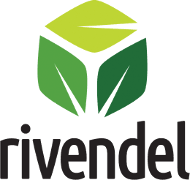
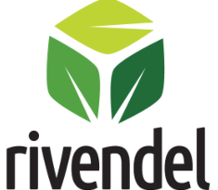
Add optimized images for retina displays

diff --git a/resources/styles/application.css b/resources/styles/application.css
@@ -1,1 +1,1 @@
-@import url(//fonts.googleapis.com/css?family=Open+Sans:300italic,400italic,700italic,400,700,300);.button,#hero .try .button{background-color:#223;border-radius:1px;color:#fff;cursor:pointer;display:inline-block;padding:4px 16px;transition:background-color 0.25s ease;user-select:none}.button:hover,#hero .try .button:hover{background-color:#27273b}.button:active,#hero .try .button:active{background-color:#1d1d2b}#features .button{padding:8px 16px}#hero .try .button{padding:12px 16px}@media screen and (min-width: 800px){.column{float:left}}.container:after,.navigation-items:after{clear:both;content:"";display:table}.section{clear:both;display:block}*{background:none;border:0;-moz-box-sizing:border-box;box-sizing:border-box;color:inherit;font-family:inherit;font-size:100%;font-style:normal;font-weight:500;line-height:inherit;margin:0;padding:0;text-decoration:none;vertical-align:baseline}*[disabled]{cursor:not-allowed;user-select:none}*[hidden]{display:none}template{display:none}html{font-size:16px}article,aside,footer,header,main,nav,section{display:block}body{background-color:#223;color:#556;direction:ltr;font-family:"Open Sans",sans-serif;font-size:16px;line-height:24px}h1,h2,h3,h4,h5,h6{color:#445}h1,h2{line-height:48px;font-size:42px}h3{line-height:40px;font-size:34px}h4{line-height:32px;font-size:26px}h5{line-height:24px;font-size:21px}h6{line-height:16px;font-size:16px}figure,figcaption{display:block}ol,ul{list-style:none}hr{height:0}pre{white-space:pre-wrap}code,kbd,samp{font-family:Menlo,Monaco,Consolas,Courier,monospace}sub,sup{font-size:80%;line-height:0}b{font-weight:900}q{quotes:"\201C" "\201D" "\2018" "\2019"}small{font-size:80%}sub{vertical-align:sub}sup{vertical-align:super}audio,canvas,video{display:block}table{border-collapse:collapse;border-spacing:0;width:100%}datalist{display:none}.section-title,.feature-description,.social-icon,#header,#hero{-webkit-font-smoothing:antialiased}#hero .try .button{-webkit-font-smoothing:subpixel-antialiased}.brand-image{display:block;width:100%}.brand-name{display:none}.burger-layer,.navigation-button::before,.navigation-button::after{display:block;width:100%;height:20%;background:white;transition:background-color 0.3s ease}.navigation{width:100%;color:#fff;height:0;overflow:hidden;transition:all 0.3s ease}@media screen and (min-width: 800px){.navigation{position:relative;top:2px;float:right;width:auto;height:auto}}.navigation.navigation--is-open{height:200px;overflow:visible}.navigation-button{position:absolute;display:block;right:0;top:50%;transform:translateY(-50%);width:30px;height:20px;border:none;outline:none}@media screen and (min-width: 800px){.navigation-button{display:none}}.navigation-button::before,.navigation-button::after{content:'';position:absolute}.navigation-button::before{top:0}.navigation-button::after{bottom:0}.navigation-button.navigation--is-open::before,.navigation-button.navigation--is-open::after,.navigation-button.navigation--is-open .burger-layer,.navigation-button.navigation--is-open .navigation-button::before,.navigation-button.navigation--is-open .navigation-button::after{background:#3d9}.navigation-items{margin-top:20px;font-size:25px;opacity:0;transition:opacity 0.3s ease;transition-delay:0.15s}.navigation--is-open .navigation-items{opacity:1}@media screen and (min-width: 800px){.navigation-items{margin-top:0;font-size:16px;opacity:1}}@media screen and (min-width: 800px){.navigation-item{display:inline-block}.navigation-item+.navigation-item{margin-left:30px}}.navigation-link{display:block;padding:14px 0;color:inherit}.navigation-link:hover{color:#3d9}@media screen and (min-width: 800px){.navigation-link{padding:0}}.section-header{text-align:center}.section-title{font-size:55px;font-weight:100;letter-spacing:-0.035em;line-height:56px;margin-bottom:96px}.section-subtitle{font-size:21px;font-weight:500;line-height:24px;margin-bottom:24px}.section-leader{font-size:21px;font-weight:300;line-height:32px;margin:0 auto 80px;text-align:center;width:100%}.section-button{font-size:13px;letter-spacing:0.1em;line-height:24px;text-transform:uppercase}.feature{text-align:center;padding:0 5%;background-color:#FFF}@media screen and (min-width: 800px){.feature{padding:0}}.feature+.feature{margin-top:50px}@media screen and (min-width: 800px){.feature+.feature{margin-top:0}}.feature-description{font-weight:500;margin-bottom:24px}.social{color:#223}@media screen and (min-width: 800px){.social-item{float:left;text-align:center}}.social-icon{background-color:#223;border-radius:100em;color:#fff;display:inline-block;font-size:32px;text-align:center;transition:background-color 0.25s ease;width:60px;height:60px;line-height:60px;margin:8px 10px 8px 0;vertical-align:sub}@media screen and (min-width: 800px){.social-icon{display:block;width:80px;height:80px;line-height:80px;margin:0 auto 16px}}.social-link{display:block;width:100%}@media screen and (min-width: 800px){.social-link{display:inline;width:auto}}.social-link:hover .social-icon{background-color:#3d9}.google-plus .social-icon{background-color:#dd4b39}.button-icon{display:block;float:left;font-size:24px;line-height:24px;margin-right:8px}#header{background-color:#223;padding:32px;position:fixed;width:100%;z-index:100}@media screen and (min-width: 800px){#header{padding:42px}}#header .container{position:relative;padding-bottom:4px}@media screen and (min-width: 800px){#header .container{float:left;padding:0}}#header .brand{width:55%;max-width:260px}@media screen and (min-width: 800px){#header .brand{width:120px}}#hero{padding:180px 0 90px 0;background-image:linear-gradient(135deg, #f35 0%, #f93 100%);color:#fff;text-align:center}@media screen and (min-width: 800px){#hero{padding:240px 0 128px 0}}#hero h1{color:inherit;font-size:42px;font-weight:100;line-height:48px;margin-bottom:24px;text-transform:uppercase;letter-spacing:-0.05em}#hero p{padding:0 10%;margin-bottom:48px;font-size:30px;line-height:160%}@media screen and (min-width: 800px){#hero p{padding:0 25%;font-size:21px}}#hero .try{display:block;position:relative}@media screen and (min-width: 800px){#hero .try{display:inline-block}}#hero .try .button{width:90%;box-shadow:0 0 0 3px rgba(255,255,255,0.5);letter-spacing:0.1em}@media screen and (min-width: 800px){#hero .try .button{width:auto}}#hero .try .caret{border-top:4px solid;border-right:4px solid transparent;border-left:4px solid transparent;display:inline-block;vertical-align:middle;border-width:5px 5px 0}#hero .try .dropdown-menu{display:none;position:absolute;left:50%;width:calc(90% + 4px);transform:translateX(-50%);padding:10px 0;text-align:center;font-size:16px;background-color:#fff;color:#000;top:100%;border-radius:4px;border:1px solid rgba(0,0,0,0.15);margin:2px 0 0;box-shadow:0 6px 12px rgba(0,0,0,0.175)}@media screen and (min-width: 800px){#hero .try .dropdown-menu{width:250px;left:-2px;transform:none;padding:6px 0 6px 17px;text-align:left;font-size:14px}}#hero .try .dropdown-menu-link{display:block;padding:10px 0px}@media screen and (min-width: 800px){#hero .try .dropdown-menu-link{padding:5px 0px}}#hero .try .open{display:block}#hero .dropdown-menu-link:hover{color:#3d9}#hero .github{background-color:#171515}#content .content-container{margin:0 auto;max-width:960px;padding:0 5%}@media screen and (min-width: 800px){#content .content-container{padding:0}}#content .content-section{padding:50px 0}@media screen and (min-width: 800px){#content .content-section{padding:64px 0 96px 0}}#features{background-color:#fff}@media screen and (min-width: 800px){#features .column{width:33.3333333333%}}@media screen and (max-width: 800px){#features .section-title{margin-bottom:50px}}#trusted{background-color:#f7eeeb}#trusted .section-title{margin-bottom:40px}.trusted{align-items:center;display:flex;justify-content:center;flex-flow:column wrap;text-align:center}@media screen and (min-width: 800px){.trusted{flex-flow:row wrap}}@media screen and (min-width: 1024px){.trusted{flex-flow:row wrap}}.trusted-item{align-items:center;display:flex;justify-content:center;padding:20px}.trusted-item img{width:100%}@media screen and (min-width: 800px){.trusted-item{padding:50px 25px 0 25px;width:25%}.trusted-item.hu img{width:55%}.trusted-item.gcom img{width:83%}}#community{background-color:#fff}#community .section-title{font-size:45px;margin-bottom:40px}@media screen and (min-width: 800px){#community .section-title{font-size:55px}}@media screen and (min-width: 800px){#community .column{width:25%}}#footer{background-color:#223;padding:50px 0}@media screen and (min-width: 800px){#footer{padding:96px 0}}@viewport{width:device-width;zoom:1}
+@import url(//fonts.googleapis.com/css?family=Open+Sans:300italic,400italic,700italic,400,700,300);.button,#hero .try .button{background-color:#223;border-radius:1px;color:#fff;cursor:pointer;display:inline-block;padding:4px 16px;transition:background-color 0.25s ease;user-select:none}.button:hover,#hero .try .button:hover{background-color:#27273b}.button:active,#hero .try .button:active{background-color:#1d1d2b}#features .button{padding:8px 16px}#hero .try .button{padding:12px 16px}@media screen and (min-width: 800px){.column{float:left}}.container:after,.navigation-items:after{clear:both;content:"";display:table}.section{clear:both;display:block}*{background:none;border:0;-moz-box-sizing:border-box;box-sizing:border-box;color:inherit;font-family:inherit;font-size:100%;font-style:normal;font-weight:500;line-height:inherit;margin:0;padding:0;text-decoration:none;vertical-align:baseline}*[disabled]{cursor:not-allowed;user-select:none}*[hidden]{display:none}template{display:none}html{font-size:16px}article,aside,footer,header,main,nav,section{display:block}body{background-color:#223;color:#556;direction:ltr;font-family:"Open Sans",sans-serif;font-size:16px;line-height:24px}h1,h2,h3,h4,h5,h6{color:#445}h1,h2{line-height:48px;font-size:42px}h3{line-height:40px;font-size:34px}h4{line-height:32px;font-size:26px}h5{line-height:24px;font-size:21px}h6{line-height:16px;font-size:16px}figure,figcaption{display:block}ol,ul{list-style:none}hr{height:0}pre{white-space:pre-wrap}code,kbd,samp{font-family:Menlo,Monaco,Consolas,Courier,monospace}sub,sup{font-size:80%;line-height:0}b{font-weight:900}q{quotes:"\201C" "\201D" "\2018" "\2019"}small{font-size:80%}sub{vertical-align:sub}sup{vertical-align:super}audio,canvas,video{display:block}table{border-collapse:collapse;border-spacing:0;width:100%}datalist{display:none}.section-title,.feature-description,.social-icon,#header,#hero{-webkit-font-smoothing:antialiased}#hero .try .button{-webkit-font-smoothing:subpixel-antialiased}.brand-image{display:block;width:100%}.brand-name{display:none}.burger-layer,.navigation-button::before,.navigation-button::after{display:block;width:100%;height:20%;background:white;transition:background-color 0.3s ease}.navigation{width:100%;color:#fff;height:0;overflow:hidden;transition:all 0.3s ease}@media screen and (min-width: 800px){.navigation{position:relative;top:2px;float:right;width:auto;height:auto}}.navigation.navigation--is-open{height:200px;overflow:visible}.navigation-button{position:absolute;display:block;right:0;top:50%;transform:translateY(-50%);width:30px;height:20px;border:none;outline:none}@media screen and (min-width: 800px){.navigation-button{display:none}}.navigation-button::before,.navigation-button::after{content:'';position:absolute}.navigation-button::before{top:0}.navigation-button::after{bottom:0}.navigation-button.navigation--is-open::before,.navigation-button.navigation--is-open::after,.navigation-button.navigation--is-open .burger-layer,.navigation-button.navigation--is-open .navigation-button::before,.navigation-button.navigation--is-open .navigation-button::after{background:#3d9}.navigation-items{margin-top:20px;font-size:25px;opacity:0;transition:opacity 0.3s ease;transition-delay:0.15s}.navigation--is-open .navigation-items{opacity:1}@media screen and (min-width: 800px){.navigation-items{margin-top:0;font-size:16px;opacity:1}}@media screen and (min-width: 800px){.navigation-item{display:inline-block}.navigation-item+.navigation-item{margin-left:30px}}.navigation-link{display:block;padding:14px 0;color:inherit}.navigation-link:hover{color:#3d9}@media screen and (min-width: 800px){.navigation-link{padding:0}}.section-header{text-align:center}.section-title{font-size:55px;font-weight:100;letter-spacing:-0.035em;line-height:56px;margin-bottom:96px}.section-subtitle{font-size:21px;font-weight:500;line-height:24px;margin-bottom:24px}.section-leader{font-size:21px;font-weight:300;line-height:32px;margin:0 auto 80px;text-align:center;width:100%}.section-button{font-size:13px;letter-spacing:0.1em;line-height:24px;text-transform:uppercase}.feature{text-align:center;padding:0 5%;background-color:#FFF}@media screen and (min-width: 800px){.feature{padding:0}}.feature+.feature{margin-top:50px}@media screen and (min-width: 800px){.feature+.feature{margin-top:0}}.feature-description{font-weight:500;margin-bottom:24px}.social{color:#223}@media screen and (min-width: 800px){.social-item{float:left;text-align:center}}.social-icon{background-color:#223;border-radius:100em;color:#fff;display:inline-block;font-size:32px;text-align:center;transition:background-color 0.25s ease;width:60px;height:60px;line-height:60px;margin:8px 10px 8px 0;vertical-align:sub}@media screen and (min-width: 800px){.social-icon{display:block;width:80px;height:80px;line-height:80px;margin:0 auto 16px}}.social-link{display:block;width:100%}@media screen and (min-width: 800px){.social-link{display:inline;width:auto}}.social-link:hover .social-icon{background-color:#3d9}.google-plus .social-icon{background-color:#dd4b39}.button-icon{display:block;float:left;font-size:24px;line-height:24px;margin-right:8px}#header{background-color:#223;padding:32px;position:fixed;width:100%;z-index:100}@media screen and (min-width: 800px){#header{padding:42px}}#header .container{position:relative;padding-bottom:4px}@media screen and (min-width: 800px){#header .container{float:left;padding:0}}#header .brand{width:55%;max-width:260px}@media screen and (min-width: 800px){#header .brand{width:120px}}#hero{padding:180px 0 90px 0;background-image:linear-gradient(135deg, #f35 0%, #f93 100%);color:#fff;text-align:center}@media screen and (min-width: 800px){#hero{padding:240px 0 128px 0}}#hero h1{color:inherit;font-size:42px;font-weight:100;line-height:48px;margin-bottom:24px;text-transform:uppercase;letter-spacing:-0.05em}#hero p{padding:0 10%;margin-bottom:48px;font-size:30px;line-height:160%}@media screen and (min-width: 800px){#hero p{padding:0 25%;font-size:21px}}#hero .try{display:block;position:relative}@media screen and (min-width: 800px){#hero .try{display:inline-block}}#hero .try .button{width:90%;box-shadow:0 0 0 3px rgba(255,255,255,0.5);letter-spacing:0.1em}@media screen and (min-width: 800px){#hero .try .button{width:auto}}#hero .try .caret{border-top:4px solid;border-right:4px solid transparent;border-left:4px solid transparent;display:inline-block;vertical-align:middle;border-width:5px 5px 0}#hero .try .dropdown-menu{display:none;position:absolute;left:50%;width:calc(90% + 4px);transform:translateX(-50%);padding:10px 0;text-align:center;font-size:16px;background-color:#fff;color:#000;top:100%;border-radius:4px;border:1px solid rgba(0,0,0,0.15);margin:2px 0 0;box-shadow:0 6px 12px rgba(0,0,0,0.175)}@media screen and (min-width: 800px){#hero .try .dropdown-menu{width:250px;left:-2px;transform:none;padding:6px 0 6px 17px;text-align:left;font-size:14px}}#hero .try .dropdown-menu-link{display:block;padding:10px 0px}@media screen and (min-width: 800px){#hero .try .dropdown-menu-link{padding:5px 0px}}#hero .try .open{display:block}#hero .dropdown-menu-link:hover{color:#3d9}#hero .github{background-color:#171515}#content .content-container{margin:0 auto;max-width:960px;padding:0 5%}@media screen and (min-width: 800px){#content .content-container{padding:0}}#content .content-section{padding:50px 0}@media screen and (min-width: 800px){#content .content-section{padding:64px 0 96px 0}}#features{background-color:#fff}@media screen and (min-width: 800px){#features .column{width:33.3333333333%}}@media screen and (max-width: 800px){#features .section-title{margin-bottom:50px}}#trusted{background-color:#f7eeeb}#trusted .section-title{margin-bottom:40px}.trusted{align-items:center;display:flex;justify-content:center;flex-flow:column wrap;text-align:center}@media screen and (min-width: 800px){.trusted{flex-flow:row wrap}}@media screen and (min-width: 1024px){.trusted{flex-flow:row wrap}}.trusted-item{align-items:center;display:flex;justify-content:center;padding:20px}.trusted-item img{width:100%}@media screen and (min-width: 800px){.trusted-item{padding:50px 25px 0 25px;width:25%}}#community{background-color:#fff}#community .section-title{font-size:45px;margin-bottom:40px}@media screen and (min-width: 800px){#community .section-title{font-size:55px}}@media screen and (min-width: 800px){#community .column{width:25%}}#footer{background-color:#223;padding:50px 0}@media screen and (min-width: 800px){#footer{padding:96px 0}}@viewport{width:device-width;zoom:1}

diff --git a/index.html b/index.html
@@ -142,51 +142,51 @@
           <ul class="trusted">
             <li class="trusted-item gcom">
               <a href="http://globo.com" target="_blank">
-                <img src="resources/images/companies/globocom.png">
+                <img src="resources/images/companies/globocom.png" srcset="resources/images/companies/globocom-2x.png 2x">
               </a>
             </li>
             <li class="trusted-item jb">
               <a href="http://jusbrasil.com.br" target="_blank">
-                <img src="resources/images/companies/jusbrasil.png">
+                <img src="resources/images/companies/jusbrasil.png" srcset="resources/images/companies/jusbrasil-2x.png 2x">
               </a>
             </li>
             <li class="trusted-item qdq">
               <a href="https://www.qdqmedia.com" target="_blank">
-                <img src="resources/images/companies/qdqmedia.png">
+                <img src="resources/images/companies/qdqmedia.png" srcset="resources/images/companies/qdqmedia-2x.png 2x">
               </a>
             </li>
             <li class="trusted-item hu">
               <a href="https://www.hotelurbano.com" target="_blank">
-                <img src="resources/images/companies/hu.png">
+                <img src="resources/images/companies/hu.png" srcset="resources/images/companies/hu-2x.png 2x">
               </a>
             </li>
             <li class="trusted-item eduk">
               <a href="http://www.eduk.com.br" target="_blank">
-                <img src="resources/images/companies/eduk.png">
+                <img src="resources/images/companies/eduk.png" srcset="resources/images/companies/eduk-2x.png 2x">
               </a>
             </li>
             <li class="trusted-item rivendel">
               <a href="http://www.rivendel.com.br" target="_blank">
-                <img src="resources/images/companies/rivendel.png">
+                <img src="resources/images/companies/rivendel.png" srcset="resources/images/companies/rivendel-2x.png 2x">
               </a>
             </li>
             <li class="trusted-item nuveo">
               <a href="https://www.nuveo.com.br/" target="_blank">
-                <img src="resources/images/companies/nuveo.png">
+                <img src="resources/images/companies/nuveo.png" srcset="resources/images/companies/nuveo-2x.png 2x">
               </a>
             </li>
             <li class="trusted-item filmow">
               <a href="https://filmow.com/" target="_blank">
-                <img src="resources/images/companies/filmow.png">
+                <img src="resources/images/companies/filmow.png" srcset="resources/images/companies/filmow-2x.png 2x">
               </a>
               <li class="trusted-item jumia">
                 <a href="https://jumia.com/" target="_blank">
-                  <img src="resources/images/companies/jumia.png">
+                  <img src="resources/images/companies/jumia.png" srcset="resources/images/companies/jumia-2x.png 2x">
                 </a>
               </li>
               <li class="trusted-item stone">
                 <a href="https://stone.com.br/" target="_blank">
-                  <img src="resources/images/companies/stone.png">
+                  <img src="resources/images/companies/stone.png" srcset="resources/images/companies/stone-2x.png 2x">
                 </a>
               </li>
             </li>

diff --git a/resources/styles/application.scss b/resources/styles/application.scss
@@ -781,13 +781,6 @@ datalist {
     @include respond-to(medium) {
         padding: 50px 25px 0 25px;
         width: 25%;
-
-        &.hu img {
-            width: 55%;
-        }
-        &.gcom img {
-            width: 83%;
-        }
     }
 }
 // -----------------------------------------------------------------------------
